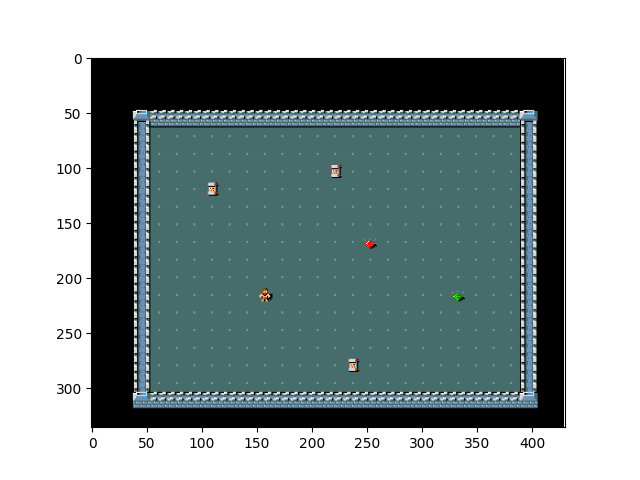
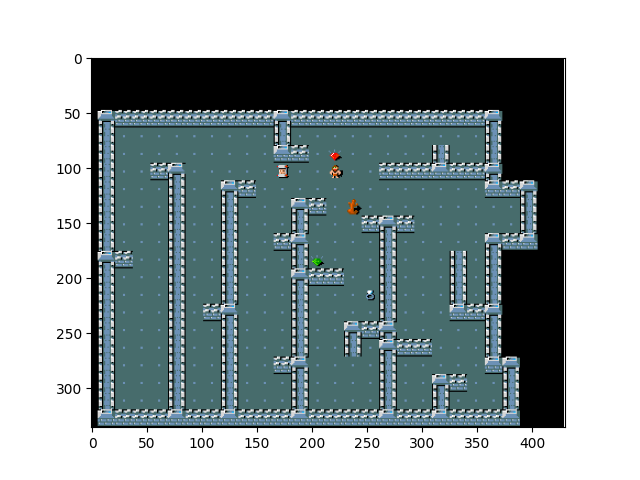
repeated use of a_star to visit the entire floor

Changed region(s): [[0.125, 0.2188, 0.8438, 0.9062], [0.5938, 0.2188, 0.8438, 0.4375], [0.4062, 0.2188, 0.5312, 0.375]]

diff --git a/utils.py b/utils.py
@@ -1,0 +1,147 @@
+import numpy as np
+import math
+from generate_room import*
+from queue import PriorityQueue
+from typing import Tuple, List
+
+def get_player_location(game_map: np.ndarray, symbol : str = "@") -> Tuple[int, int]:
+    x, y = np.where(game_map == ord(symbol))
+    return (x[0], y[0])
+
+def is_wall(position_element: int) -> bool:
+    obstacles = "|- "
+    return chr(position_element) in obstacles
+
+def get_valid_moves(game_map: np.ndarray, current_position: Tuple[int, int]) -> List[Tuple[int, int]]:
+    x_limit, y_limit = game_map.shape
+    valid = []
+    x, y = current_position    
+    # North
+    if y - 1 > 0 and not is_wall(game_map[x, y-1]):
+        valid.append((x, y-1)) 
+    # East
+    if x + 1 < x_limit and not is_wall(game_map[x+1, y]):
+        valid.append((x+1, y)) 
+    # South
+    if y + 1 < y_limit and not is_wall(game_map[x, y+1]):
+        valid.append((x, y+1)) 
+    # West
+    if x - 1 > 0 and not is_wall(game_map[x-1, y]):
+        valid.append((x-1, y))
+
+    return valid
+
+def actions_from_path(start: Tuple[int, int], path: List[Tuple[int, int]]) -> List[int]:
+    action_map = {
+        "N": 0,
+        "E": 1,
+        "S": 2,
+        "W": 3
+    }
+    actions = []
+    x_s, y_s = start
+    for (x, y) in path:
+        if x_s == x:
+            if y_s > y:
+                actions.append(action_map["W"])
+            else: actions.append(action_map["E"])
+        elif y_s == y:
+            if x_s > x:
+                actions.append(action_map["N"])
+            else: actions.append(action_map["S"])
+        else:
+            raise Exception("x and y can't change at the same time. oblique moves not allowed!")
+        x_s = x
+        y_s = y
+    
+    return actions
+
+def euclidean_distance(point1: Tuple[int, int], point2: Tuple[int, int]) -> float:
+    x1, y1 = point1
+    x2, y2 = point2
+    return math.sqrt((x1 - x2) ** 2 + (y1 - y2) ** 2)
+
+def manhattan_distance(point1: Tuple[int, int], point2: Tuple[int, int]) -> int:
+    x1, y1 = point1
+    x2, y2 = point2
+    return abs(x1 - x2) + abs(y1 - y2)
+
+def get_floor_positions(state):
+    floor_positions = []
+    matrix_map = state["chars"]
+    (clue_objects, goal_objects) = read_object_file(object_file_path)
+    clue_object_symbols = [object_symbol for (_, object_symbol,_) in clue_objects]
+    goal_object_symbols = [object_symbol for (_, object_symbol) in goal_objects]
+    walkable_symbols = clue_object_symbols + goal_object_symbols + ['.']
+    for i in range(len(matrix_map)):
+        for j in range(len(matrix_map[i])):
+            if chr(matrix_map[i][j]) in walkable_symbols:
+                floor_positions.append((i,j))
+    return floor_positions
+
+# given a path it returns all the points to be considered visited
+def already_visited(list: List[Tuple[int, int]]): 
+    floor_already_visited = []
+    for tuple in list: 
+        x, y = tuple
+        floor_already_visited.append((x, y))
+        floor_already_visited.append((x-1, y-1))
+        floor_already_visited.append((x-1, y))
+        floor_already_visited.append((x-1, y+1))
+        floor_already_visited.append((x, y+1))
+        floor_already_visited.append((x+1, y+1))
+        floor_already_visited.append((x+1, y))
+        floor_already_visited.append((x+1, y-1))
+        floor_already_visited.append((x, y-1))
+    
+    return floor_already_visited
+
+def build_path(parent: dict, target: Tuple[int, int]) -> List[Tuple[int, int]]:
+    path = []
+    while target is not None:
+        path.append(target)
+        target = parent[target]
+    path.reverse()
+    return path
+
+def a_star(game_map: np.ndarray, start: Tuple[int, int], target: Tuple[int, int], h: callable) -> List[Tuple[int, int]]:
+    # initialize open and close list
+    open_list = PriorityQueue()
+    close_list = []
+    # additional dict which maintains the nodes in the open list for an easier access and check
+    support_list = {}
+    starting_state_g = 0
+    starting_state_h = h(start, target)
+    starting_state_f = starting_state_g + starting_state_h
+    open_list.put((starting_state_f, (start, starting_state_g)))
+    support_list[start] = starting_state_g
+    parent = {start: None}
+    while not open_list.empty():
+        # get the node with lowest f
+        _, (current, current_cost) = open_list.get()
+        # add the node to the close list
+        close_list.append(current)
+        if current == target:
+            print("Target found!")
+            path = build_path(parent, target)
+            return path
+        for neighbor in get_valid_moves(game_map, current):
+            # check if neighbor in close list, if so continue
+            if neighbor in close_list:
+                continue
+            # compute neighbor g, h and f values
+            neighbor_g = 1 + current_cost
+            neighbor_h = h(neighbor, target)
+            neighbor_f = neighbor_g + neighbor_h
+            parent[neighbor] = current
+            neighbor_entry = (neighbor_f, (neighbor, neighbor_g))
+            # if neighbor in open_list
+            if neighbor in support_list.keys():
+                # if neighbor_g is greater or equal to the one in the open list, continue
+                if neighbor_g >= support_list[neighbor]:
+                    continue
+            # add neighbor to open list and update support_list
+            open_list.put(neighbor_entry)
+            support_list[neighbor] = neighbor_g
+    print("Target node not found!")
+    return None

diff --git a/explore_room.py b/explore_room.py
@@ -1,0 +1,73 @@
+
+import gym
+import minihack
+import random
+from utils import *
+from generate_room import generate_env
+
+
+def exhaustive_search(game_map: np.ndarray, start: Tuple[int, int], floor_positions: [], game):
+    
+    target = (0,0)
+
+    while True:
+
+        # all floor floor has been visited
+        if not floor_positions:
+            print(floor_positions)
+            return 
+
+        # obtain floor visited (the neighbors of start)
+        already_visited_arr = already_visited([start])
+
+        # delete floor visited 
+        for point in already_visited_arr:
+            if point in floor_positions:
+                floor_positions.remove(point)
+
+        randoom_number = random.randint(1, 10)
+        if (1 <= randoom_number <= 7): 
+            # near floor target 
+            min = float('inf')
+            for point in floor_positions:
+                if (euclidean_distance(start, point) < min): 
+                    target = point
+                    min = euclidean_distance(start, point)
+        else:
+            # randoom target 
+            target = random.choice(floor_positions)
+
+        # path with A*
+        path = a_star(game_map, start, target, manhattan_distance)
+        # delete floor visited with path 
+        for point in already_visited(path):
+            if point in floor_positions:
+                floor_positions.remove(point)
+
+        # MOVIMENTO DA IMPLEMENTARE, non funziona :(
+        #actions = actions_from_path(start,path)
+        #image = plt.imshow(game[25:300, :475])
+        #for action in actions:
+        #    s, _, _, _ = env.step(action)
+        #    display.display(plt.gcf())
+        #    display.clear_output(wait=True)
+        #    image.set_data(s['pixel'][25:300, :475])
+
+        # neext loop I'll start from where I arrived
+        start = target
+        
+
+env = generate_env()
+state = env.reset()
+env.render()
+
+game_map = state['chars']
+start = get_player_location(game_map)
+floor_positions = get_floor_positions(state)
+game = state['pixel']
+
+# gli passo game perchè serve per vedere i movimenti (?)
+exhaustive_search(game_map, start, floor_positions, game)
+
+
+
